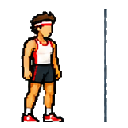
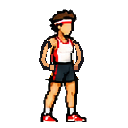
Adopt corrected bouncing and breathing idle sets
Corrected bouncing is the start-screen idle; the breathing set plays
while a prompt is live. First versions kept as idle_*_v1_NN.

Claude-Session: https://claude.ai/code/session_01EJGdPFEJJAEzArUYCthXfT

diff --git a/app/play/page.tsx b/app/play/page.tsx
@@ -327,10 +327,11 @@ export default function PlayPage() {
   const prompt = run?.prompts.find((p) => p.position === position);
   const inFinalFive = phase === "active" && secondsLeft <= 5 && secondsLeft > 0;
 
-  // He bounces on his toes while a prompt is live (the track only moves
-  // when he scores, so a jog here reads as a treadmill), sprints to
-  // cover a scored gain, then pulls up hands-on-knees (stop -> rest).
-  // A timeout sends him sprawling; he gets up during the next countdown.
+  // He bounces on the start screen, stands breathing while a prompt is
+  // live (the track only moves when he scores, so a jog here reads as a
+  // treadmill), sprints to cover a scored gain, then pulls up
+  // hands-on-knees (stop -> rest). A timeout sends him sprawling; he
+  // gets up during the next countdown.
   const animation: RunnerAnimation =
     phase === "finishing"
       ? "dip"
@@ -340,9 +341,11 @@ export default function PlayPage() {
           : "stop"
         : phase === "countdown" && fell
           ? "getup"
-          : phase === "tap-to-start" && stretching
-            ? "stretch"
-            : "idle";
+          : phase === "active"
+            ? "breathe"
+            : phase === "tap-to-start" && stretching
+              ? "stretch"
+              : "idle";
 
   if (phase === "loading") {
     return <main className={styles.message}>Loading today&apos;s run...</main>;

diff --git a/components/game/runnerSprites.ts b/components/game/runnerSprites.ts
@@ -17,6 +17,7 @@
 
 export type RunnerAnimation =
   | "idle" // bouncing on the line before the run
+  | "breathe" // standing, breathing, while a prompt is live
   | "rest" // hands on knees, breathing (between prompts)
   | "jog"
   | "sprint"
@@ -27,7 +28,7 @@ export type RunnerAnimation =
   | "getup" // kneel to standing after a fall, then idle
   | "stretch"; // start-screen stretch, then idle
 export const RUNNER_ANIMATIONS: RunnerAnimation[] = [
-  "idle", "rest", "jog", "sprint", "stop", "fall", "dip", "celebrate", "getup", "stretch",
+  "idle", "breathe", "rest", "jog", "sprint", "stop", "fall", "dip", "celebrate", "getup", "stretch",
 ];
 
 export interface SpriteSheet {
@@ -341,6 +342,7 @@ export function generatePlaceholderSprites(): RunnerSprites {
   const dipSheet = makeSheet(dip, 8, false);
   return {
     idle: idleSheet,
+    breathe: idleSheet,
     rest: idleSheet,
     jog: makeSheet(runCycle(0.75, 0.12, 33, false), 10, true),
     sprint: makeSheet(runCycle(1.0, 0.3, 32, true), 14, true),

diff --git a/tools/pack_runner.py b/tools/pack_runner.py
@@ -26,10 +26,11 @@ FOOT_Y = 121
 # 1.4x too large; those are scaled back down to the standing size.
 SCALE = {("trip_and_fall", i): 0.72 for i in range(7, 13)}
 
-# The run cycle is the corrected alternating-leg set; the first set
-# (same leg forward in every frame) is kept as runner_v1_NN.
+# The run cycle, bouncing and breathing sets are the corrected versions;
+# the first versions are kept as *_v1_NN.
 ANIMS = {
     "idle": ("idle_bouncing", range(1, 9), 8, True, None),
+    "breathe": ("idle_breathing", range(1, 9), 6, True, None),
     "rest": ("exhausted_stop", range(9, 13), 5, True, None),
     "jog": ("runner", range(1, 9), 10, True, None),
     "sprint": ("runner", range(1, 9), 16, True, None),

diff --git a/README.md b/README.md
@@ -51,4 +51,4 @@ The runner is a sprite-sheet component. Frames live in `art/runner/` as 128x128 
 python tools/pack_runner.py art/runner public/sprites
 ```
 
-(needs Pillow and numpy). The manifest it writes maps game animations to sheets: `idle` (bouncing loop before the run), `rest` (hands-on-knees breathing between prompts), `jog`, `sprint`, `stop` (plays once, then `next: rest`), `fall` (plays once, holds), `dip` (finish lean, then `next: celebrate`), `celebrate` (loop), `getup` (after a fall, during the next countdown, then `next: idle`) and `stretch` (start screen, then `next: idle`). Without a manifest the game draws a code-generated placeholder runner.
+(needs Pillow and numpy). The manifest it writes maps game animations to sheets: `idle` (bouncing loop before the run), `breathe` (standing while a prompt is live), `rest` (hands-on-knees breathing between prompts), `jog`, `sprint`, `stop` (plays once, then `next: rest`), `fall` (plays once, holds), `dip` (finish lean, then `next: celebrate`), `celebrate` (loop), `getup` (after a fall, during the next countdown, then `next: idle`) and `stretch` (start screen, then `next: idle`). Without a manifest the game draws a code-generated placeholder runner.
